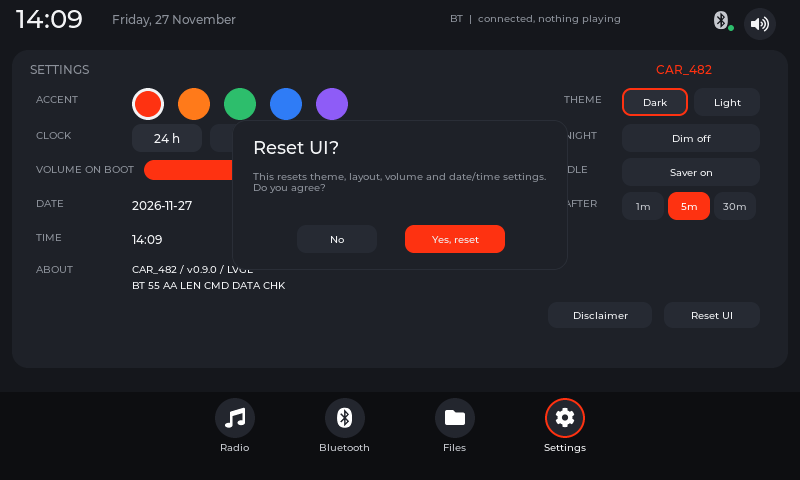
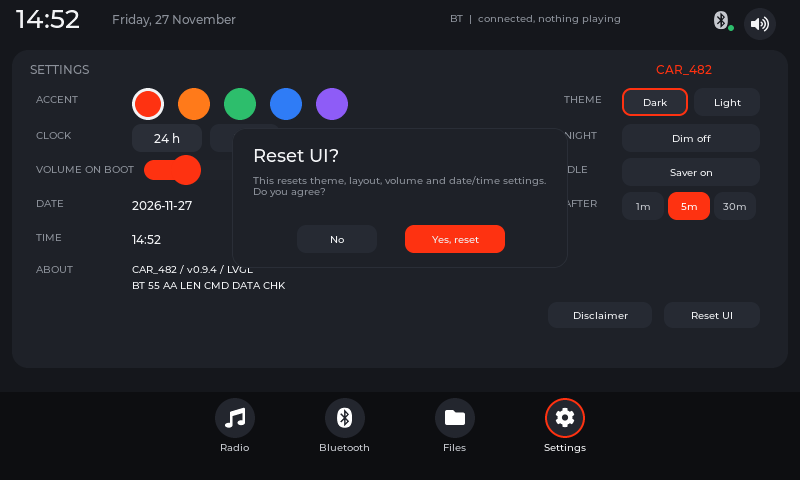
ui: compact reset dialog, drop music hint and hands-free label, boot volume 15%

diff --git a/prototype/index.html b/prototype/index.html
@@ -137,7 +137,6 @@
   .music-actions .btn{height:36px;font-size:12px}
   #btnMute{width:90px}
   #btnCallSim{width:110px}
-  .music-hint{position:absolute;left:240px;top:272px;width:230px;font-size:10px;color:var(--muted)}
   .call-info{display:none;position:absolute;left:30px;top:58px;width:424px}
   .ci-name{font-size:28px;font-weight:600;line-height:1.2;white-space:nowrap;overflow:hidden;text-overflow:ellipsis;letter-spacing:-.01em}
   .ci-number{font-size:18px;color:var(--soft);margin-top:9px;white-space:nowrap;overflow:hidden;text-overflow:ellipsis}
@@ -146,8 +145,7 @@
   .audio-card.call-mode .track,
   .audio-card.call-mode .artist,
   .audio-card.call-mode .time,
-  .audio-card.call-mode .music-status,
-  .audio-card.call-mode .music-hint{display:none}
+  .audio-card.call-mode .music-status{display:none}
   .audio-card.call-mode .call-info{display:block}
   .audio-card.call-mode .music-actions{left:110px;top:228px;gap:12px}
   .audio-card.call-mode #btnMute,
@@ -399,6 +397,7 @@
   .settings-info{position:absolute;right:146px;bottom:16px;width:100px;height:28px;font-size:11px}
   .settings-modal{position:absolute;left:150px;top:52px;width:476px;height:210px;background:var(--card);border:1px solid var(--btn);border-radius:14px;padding:18px;display:none;z-index:20;box-shadow:0 20px 50px rgba(0,0,0,.45)}
   .settings-modal.show{display:block}
+  #resetModal{left:220px;top:78px;width:360px;height:auto;padding-bottom:16px}
   #disclaimerModal{left:50px;top:28px;width:676px;height:250px}
   .sm-title{font-size:15px;font-weight:700;color:var(--text)}
   .sm-text{font-size:11px;line-height:1.55;color:var(--muted);margin-top:12px;white-space:pre-wrap}
@@ -665,7 +664,6 @@
       <button class="btn ghost" id="btnMute">Mute</button>
       <button class="btn ghost" id="btnCallSim">Call</button>
     </div>
-    <div class="music-hint" id="musicHint">Tap album art for full player</div>
   </section>
 
   <!-- DOCK -->
@@ -767,8 +765,8 @@
         </div>
         <div class="settings-row">
           <span>Volume on boot</span>
-          <input type="range" id="volumeRange" min="0" max="100" value="70">
-          <span class="value" id="volumeValue">70%</span>
+          <input type="range" id="volumeRange" min="0" max="100" value="15">
+          <span class="value" id="volumeValue">15%</span>
         </div>
         <div class="settings-row">
           <span>Theme</span>
@@ -811,7 +809,7 @@
         <div class="sub-label" style="margin-top:12px">About</div>
         <div class="about-grid">
           <span>Bluetooth</span><b>CAR_482</b>
-          <span>UI</span><b>LVGL 9.3 / v0.9.3</b>
+          <span>UI</span><b>LVGL 9.3 / v0.9.4</b>
           <span>BT link</span><b>55 AA LEN CMD DATA CHK</b>
         </div>
       </div>
@@ -857,7 +855,7 @@
   <!-- CALL -->
   <div class="call-scrim" id="callScrim"></div>
   <section class="app-panel call-panel" id="callPanel">
-    <div class="panel-head"><span class="label">Call</span><span class="source">Hands-free</span><button class="panel-close" data-call-close>×</button></div>
+    <div class="panel-head"><span class="label">Call</span><button class="panel-close" data-call-close>×</button></div>
     <div class="call-body">
       <div class="call-recent">
         <div class="sub-label">Recent</div>
@@ -930,7 +928,7 @@
 <div id="testbar">
   <span class="tb-title">TEST</span>
   <span class="tb-state" id="testState">connected</span>
-  <span class="tb-ver">web v0.9.3</span>
+  <span class="tb-ver">web v0.9.4</span>
   <span class="tb-sep"></span>
   <button data-state="off">Off</button>
   <button data-state="ready">Ready</button>
@@ -962,9 +960,10 @@
   const el = (id) => document.getElementById(id);
 
   let clock24 = true;
-  let defaultVolume = 70;
+  let defaultVolume = 15;
   try {
-    const dv = Number(localStorage.getItem('strada.defaultVolume'));
+    const raw = localStorage.getItem('strada.defaultVolume');
+    const dv = raw === null ? NaN : Number(raw);
     if (Number.isFinite(dv) && dv >= 0 && dv <= 100) defaultVolume = dv;
   } catch (e) {}
   let btVolume = defaultVolume;
@@ -1931,12 +1930,12 @@
   function resetUiNow() {
     setAccent('#FE3211');
     setClock(true);
-    setBootVolume(70);
-    btVolume = 70;
-    btSavedVolume = 70;
+    setBootVolume(15);
+    btVolume = 15;
+    btSavedVolume = 15;
     btMuted = false;
-    radioVolume = 70;
-    radioSavedVolume = 70;
+    radioVolume = 15;
+    radioSavedVolume = 15;
     radioMute = false;
     setVolume(70, false);
     setTheme(false);

diff --git a/app/panels.c b/app/panels.c
@@ -1033,8 +1033,8 @@ static void reset_apply_cb(lv_event_t *e) {
     if (reset_confirm) lv_obj_add_flag(reset_confirm, LV_OBJ_FLAG_HIDDEN);
     accent_idx = 0;
     clock_is_24 = true;
-    lv_slider_set_value(volume_slider, 70, LV_ANIM_OFF);
-    if (cb_volume) cb_volume(70);
+    lv_slider_set_value(volume_slider, 15, LV_ANIM_OFF);
+    if (cb_volume) cb_volume(15);
     cal_load_now();
     if (cb_set_time) cb_set_time((long)time(NULL));
     if (cb_accent) cb_accent(ACCENTS[0]);
@@ -1072,12 +1072,12 @@ static void build_settings(lv_obj_t *parent) {
     lv_obj_set_pos(volume_slider, 132, 110);
     lv_obj_set_size(volume_slider, 288, 20);
     lv_slider_set_range(volume_slider, 0, 100);
-    lv_slider_set_value(volume_slider, 70, LV_ANIM_OFF);
+    lv_slider_set_value(volume_slider, 15, LV_ANIM_OFF);
     lv_obj_set_style_bg_color(volume_slider, col(C_BTN), LV_PART_MAIN);
     lv_obj_set_style_bg_color(volume_slider, col(ACCENTS[0]), LV_PART_INDICATOR);
     lv_obj_set_style_bg_color(volume_slider, col(ACCENTS[0]), LV_PART_KNOB);
     lv_obj_add_event_cb(volume_slider, volume_cb, LV_EVENT_VALUE_CHANGED, NULL);
-    volume_lbl = label(settings_panel, "70%", 436, 110, 60, 20,
+    volume_lbl = label(settings_panel, "15%", 436, 110, 60, 20,
                        &lv_font_montserrat_12, C_TEXT, LV_TEXT_ALIGN_LEFT);
     label(settings_panel, "DATE", 24, 148, 80, 14, &lv_font_montserrat_10, C_MUTED, LV_TEXT_ALIGN_LEFT);
     date_lbl = label(settings_panel, "2026-11-26", 120, 148, 100, 20,
@@ -1124,7 +1124,7 @@ static void build_settings(lv_obj_t *parent) {
     }
 
     label(settings_panel, "ABOUT", 24, 214, 80, 14, &lv_font_montserrat_10, C_MUTED, LV_TEXT_ALIGN_LEFT);
-    label(settings_panel, "CAR_482 / v0.9.3 / LVGL", 120, 214, 320, 14,
+    label(settings_panel, "CAR_482 / v0.9.4 / LVGL", 120, 214, 320, 14,
           &lv_font_montserrat_10, C_TEXT, LV_TEXT_ALIGN_LEFT);
     label(settings_panel, "BT 55 AA LEN CMD DATA CHK", 120, 230, 320, 14,
           &lv_font_montserrat_10, C_TEXT, LV_TEXT_ALIGN_LEFT);
@@ -1133,15 +1133,15 @@ static void build_settings(lv_obj_t *parent) {
     button(settings_panel, "Reset UI", 652, 252, 96, 26, C_INNER, &lv_font_montserrat_10,
            reset_ask_cb, NULL);
 
-    reset_confirm = box(settings_panel, 220, 70, 336, 150, C_CARD, 14);
+    reset_confirm = box(settings_panel, 220, 78, 336, 140, C_CARD, 14);
     lv_obj_set_style_border_width(reset_confirm, 1, 0);
     lv_obj_set_style_border_color(reset_confirm, col(C_BTN), 0);
     lv_obj_add_flag(reset_confirm, LV_OBJ_FLAG_HIDDEN);
     label(reset_confirm, "Reset UI?", 20, 16, 296, 24, &lv_font_montserrat_18, C_TEXT, LV_TEXT_ALIGN_LEFT);
     label(reset_confirm, "This resets theme, layout, volume and date/time settings. Do you agree?",
-          20, 50, 296, 40, &lv_font_montserrat_10, C_MUTED, LV_TEXT_ALIGN_LEFT);
-    button(reset_confirm, "No", 64, 104, 80, 28, C_INNER, &lv_font_montserrat_10, reset_cancel_cb, NULL);
-    button(reset_confirm, "Yes, reset", 172, 104, 100, 28, 0xFE3211, &lv_font_montserrat_10, reset_apply_cb, NULL);
+          20, 46, 296, 36, &lv_font_montserrat_10, C_MUTED, LV_TEXT_ALIGN_LEFT);
+    button(reset_confirm, "No", 64, 96, 80, 28, C_INNER, &lv_font_montserrat_10, reset_cancel_cb, NULL);
+    button(reset_confirm, "Yes, reset", 172, 96, 100, 28, 0xFE3211, &lv_font_montserrat_10, reset_apply_cb, NULL);
 
     disclaimer_box = box(settings_panel, 40, 40, 696, 238, C_CARD, 14);
     lv_obj_set_style_border_width(disclaimer_box, 1, 0);

diff --git a/app/ui.c b/app/ui.c
@@ -34,13 +34,13 @@ static int screen_idx = -1;
 typedef enum { SRC_BT = 0, SRC_RADIO = 1 } audio_source_t;
 static audio_source_t active_src = SRC_BT;
 static int radio_volume = 70;
-static int bt_volume = 70;
+static int bt_volume = 15;
 static bool radio_muted = false;
 static int radio_saved_volume = 0;
-static int bt_saved_volume = 70;
+static int bt_saved_volume = 15;
 static bool bt_muted = false;
 static bool bt_resume_after_radio = false;
-static int boot_volume = 70;     /* Settings slider: level used at power-on */
+static int boot_volume = 15;     /* Settings slider: level used at power-on */
 static int saver_timeout_sec = 300;
 static bool night_dim = false;
 static bool saver_enabled = true;
@@ -80,7 +80,6 @@ static lv_obj_t *dock_circles[4];
 static lv_obj_t *dock_labels[4];
 static lv_obj_t *audio_source;
 static lv_obj_t *audio_header_lbl;
-static lv_obj_t *music_hint_lbl;
 static lv_obj_t *call_info_name;
 static lv_obj_t *call_info_number;
 static lv_obj_t *call_info_state;
@@ -789,7 +788,6 @@ static void update_phone(void) {
         lv_obj_add_flag(artist_lbl, LV_OBJ_FLAG_HIDDEN);
         lv_obj_add_flag(time_pos_lbl, LV_OBJ_FLAG_HIDDEN);
         lv_obj_add_flag(music_status_lbl, LV_OBJ_FLAG_HIDDEN);
-        lv_obj_add_flag(music_hint_lbl, LV_OBJ_FLAG_HIDDEN);
         lv_obj_remove_flag(call_info_name, LV_OBJ_FLAG_HIDDEN);
         lv_obj_remove_flag(call_info_number, LV_OBJ_FLAG_HIDDEN);
         lv_obj_remove_flag(call_info_state, LV_OBJ_FLAG_HIDDEN);
@@ -812,7 +810,6 @@ static void update_phone(void) {
         lv_obj_remove_flag(artist_lbl, LV_OBJ_FLAG_HIDDEN);
         lv_obj_remove_flag(time_pos_lbl, LV_OBJ_FLAG_HIDDEN);
         lv_obj_remove_flag(music_status_lbl, LV_OBJ_FLAG_HIDDEN);
-        lv_obj_remove_flag(music_hint_lbl, LV_OBJ_FLAG_HIDDEN);
         lv_obj_add_flag(call_info_name, LV_OBJ_FLAG_HIDDEN);
         lv_obj_add_flag(call_info_number, LV_OBJ_FLAG_HIDDEN);
         lv_obj_add_flag(call_info_state, LV_OBJ_FLAG_HIDDEN);
@@ -1371,8 +1368,6 @@ void ui_init(bt_model_t *model) {
     lv_label_set_long_mode(music_status_lbl, LV_LABEL_LONG_MODE_CLIP);
     lv_obj_set_style_bg_opa(music_status_lbl, LV_OPA_COVER, 0);
     lv_obj_set_style_bg_color(music_status_lbl, col(C_CARD), 0);
-    music_hint_lbl = label(audio, "Tap album art for full player", 240, 270, 220, 14,
-                           &lv_font_montserrat_10, C_MUTED, LV_TEXT_ALIGN_LEFT);
 
     call_info_name = label(audio, BT_DEVICE_NAME, 30, 62, 424, 38,
                            &lv_font_montserrat_28, C_TEXT, LV_TEXT_ALIGN_LEFT);

diff --git a/README.md b/README.md
@@ -92,7 +92,7 @@ The dock is no longer placeholder-only. The three app screens are real LVGL scre
 * Accent color swatches (red, orange, green, blue, purple) update the whole UI
 * 24 h / 12 h clock switch
 * **Date and time setting** — in-device +/- buttons, no browser or system popups
-* **Volume on boot** slider: sets the volume used at power-on and when radio starts. VOL+ / VOL− change the current volume only, so the boot level is not overwritten by normal listening. Saved in `strada.settings` (native) and `localStorage` (browser).
+* **Volume on boot** slider (default **15%**): sets the volume used at power-on and when radio starts. VOL+ / VOL− change the current volume only, so the boot level is not overwritten by normal listening. Saved in `strada.settings` (native) and `localStorage` (browser).
 * **Reset UI** asks for confirmation; **Disclaimer** opens the safety text in-app.
 * **Dark / Light theme** — the whole 800×480 UI recolors immediately
 * **Night dim** — a 50% black overlay for night driving

diff --git a/docs/RELEASES.md b/docs/RELEASES.md
@@ -3,7 +3,7 @@
 ## Versioning
 
 - `VERSION` is the current UI version.
-- Tags use `vMAJOR.MINOR.PATCH` (for example `v0.9.3`).
+- Tags use `vMAJOR.MINOR.PATCH` (for example `v0.9.4`).
 - Every push to `main` builds and tests the emulator, the ARMv5 framebuffer binary and the patched SPI image.
 - A tag matching `v*` also publishes a GitHub Release with the build artifacts.
 
@@ -26,8 +26,8 @@ $EDITOR VERSION README.md
 
 # 3. Commit, tag and push
 git add VERSION README.md
-git commit -m "release: v0.9.3"
-git tag v0.9.3
+git commit -m "release: v0.9.4"
+git tag v0.9.4
 git push origin main --tags
 ```
 
